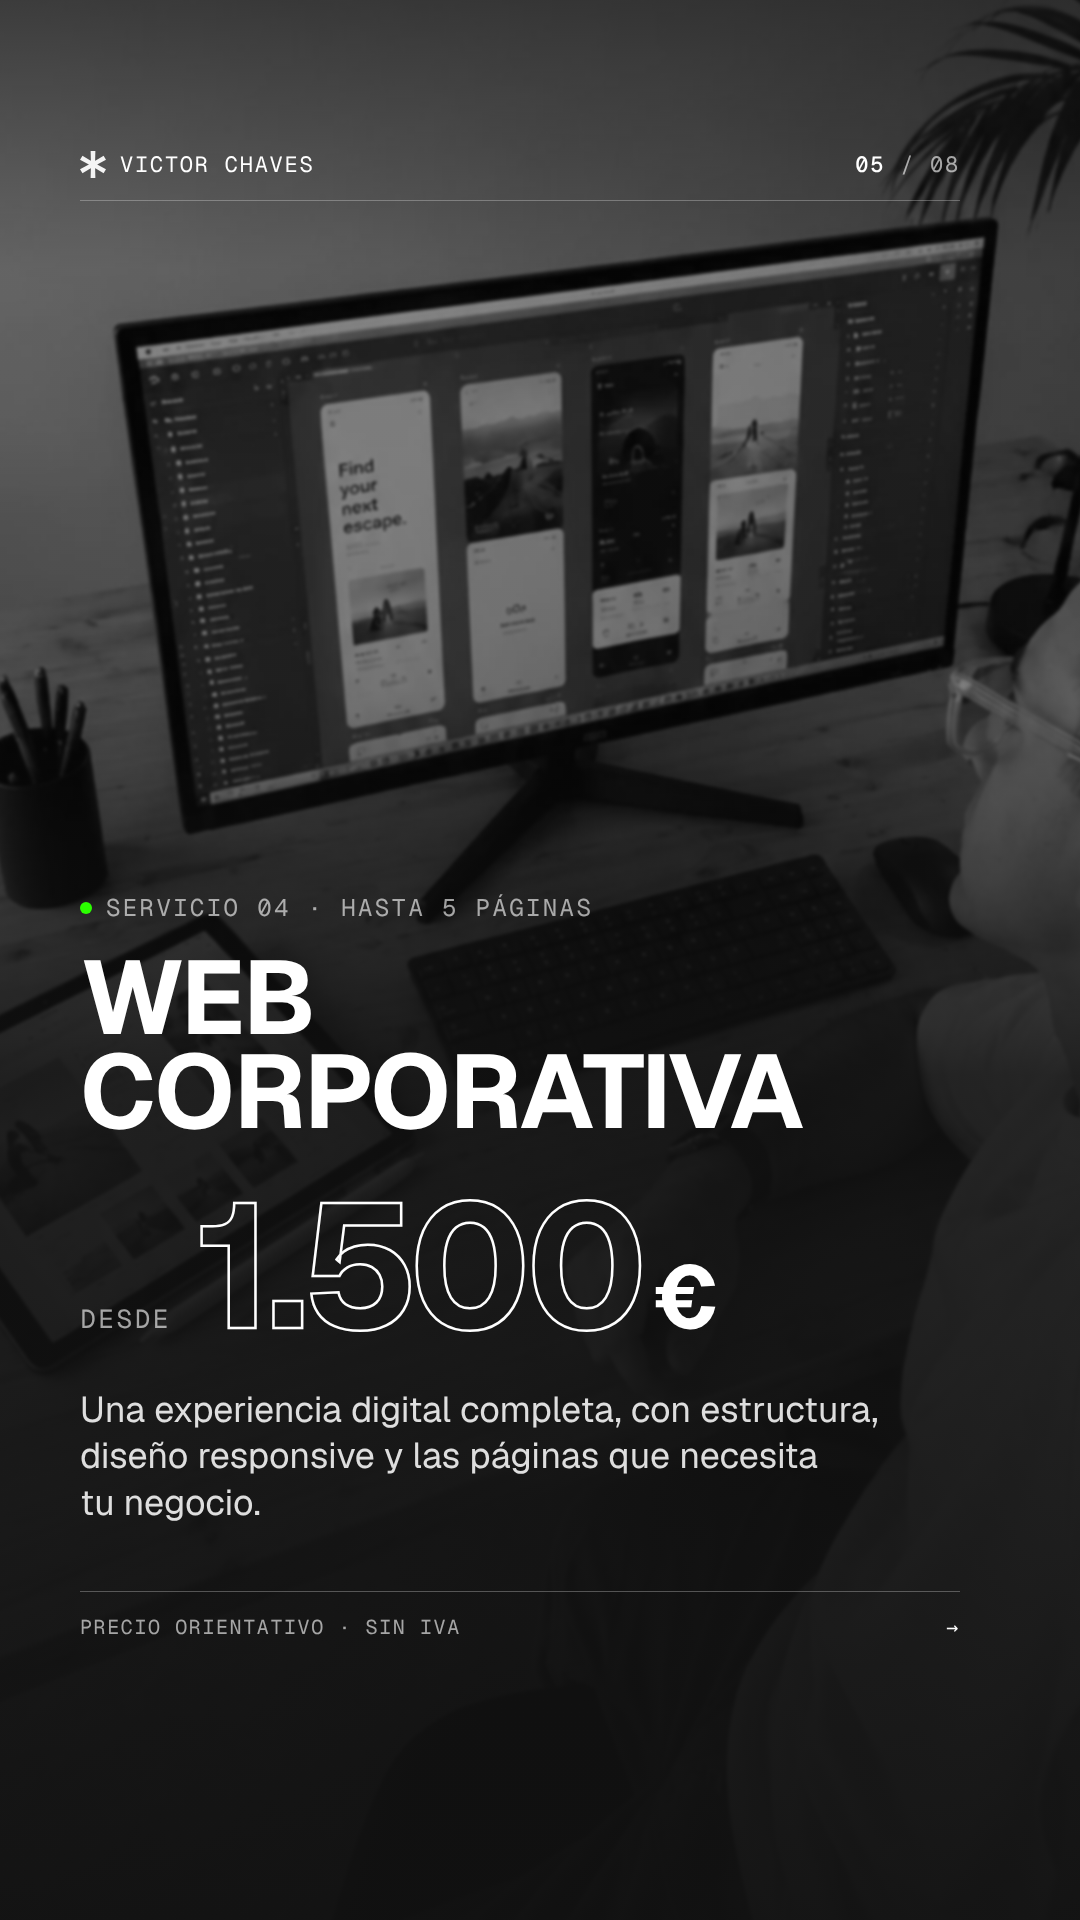
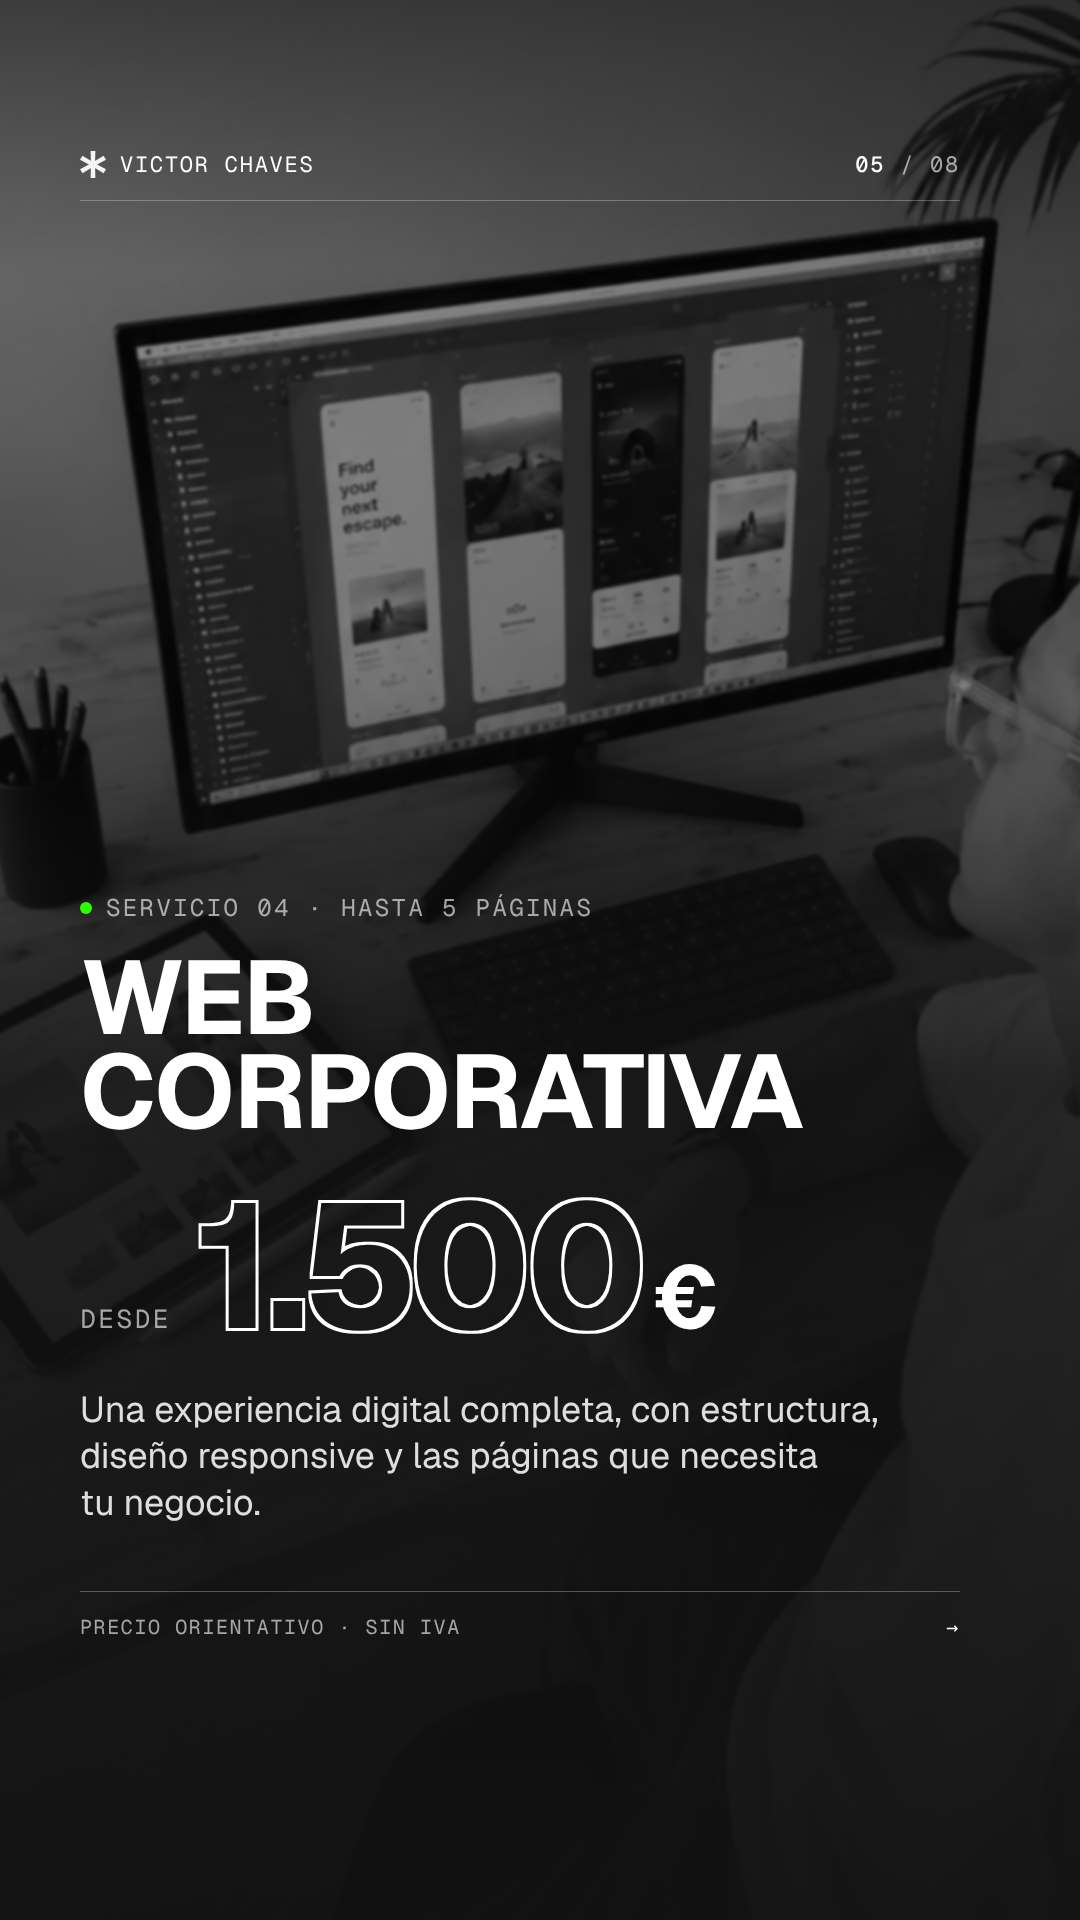
Lead the pricing carousel with what I charge as a freelancer
New cover hook. The outlined type is now drawn with a filter instead of
text-stroke, which showed the overlapping strokes inside Geist's
letters (the stray lines in the F, L and G).

Claude-Session: https://claude.ai/code/session_01CMTTdA2FPy75HwB5GT71P6

Changed region(s): [[0.275, 0.625, 0.6111, 0.6875], [0.1833, 0.625, 0.2444, 0.6875]]

diff --git a/redes/carrusel-precios/index.html b/redes/carrusel-precios/index.html
@@ -68,7 +68,7 @@ body.export { padding: 0; gap: 0; background: var(--bg); }
 /* La portada lleva la foto en color y más limpia */
 .slide--cover::before { filter: brightness(0.9) saturate(0.9); }
 .slide--cover::after {
-  background: linear-gradient(180deg, rgba(17,17,17,0.55) 0%, rgba(17,17,17,0) 14%, rgba(17,17,17,0) 40%, rgba(17,17,17,0.8) 60%, rgba(17,17,17,0.97) 82%);
+  background: linear-gradient(180deg, rgba(17,17,17,0.75) 0%, rgba(17,17,17,0.45) 9%, rgba(17,17,17,0) 16%, rgba(17,17,17,0) 30%, rgba(17,17,17,0.82) 44%, rgba(17,17,17,0.97) 70%);
 }
 
 /* El cierre lleva más texto y sube más: el velo empieza antes */
@@ -100,16 +100,19 @@ body.export { padding: 0; gap: 0; background: var(--bg); }
   font-size: 104px; line-height: 0.9; letter-spacing: -0.02em;
 }
 .title--m { font-size: 82px; line-height: 0.94; }
-.outline { color: transparent; -webkit-text-stroke: 2px var(--fg); }
+/* El contorno se dibuja con un filtro y no con text-stroke: Geist es variable
+   y sus letras tienen trazos que se solapan, y text-stroke los enseña todos. */
+.outline { color: var(--fg); filter: url(#outline); }
+.outline--thick { filter: url(#outline-thick); }
 
 .price { margin-top: 56px; display: flex; align-items: baseline; gap: 24px; }
 .price small {
   font-family: 'Geist Mono', monospace; font-size: 26px; letter-spacing: 0.1em; text-transform: uppercase; color: var(--dim);
 }
-.price strong em { font-style: normal; color: var(--fg); -webkit-text-stroke: 0; font-size: 0.5em; margin-left: 0.12em; letter-spacing: 0; }
+.price strong em { font-style: normal; font-size: 0.5em; margin-left: 0.12em; letter-spacing: 0; }
 .price strong {
   font-weight: 700; font-size: 176px; line-height: 0.82; letter-spacing: -0.04em;
-  color: transparent; -webkit-text-stroke: 2.5px var(--fg);
+  color: var(--fg);
 }
 
 .text, .sub, .quote { text-wrap: pretty; }
@@ -150,7 +153,7 @@ body.export { padding: 0; gap: 0; background: var(--bg); }
 .foot .next { color: var(--fg); }
 
 /* Portada */
-.slide--cover .title { font-size: 128px; line-height: 0.88; }
+.slide--cover .title { font-size: 116px; line-height: 0.98; }
 .slide--cover .sub { margin-top: 36px; font-size: 38px; line-height: 1.25; color: rgba(255,255,255,0.86); max-width: 760px; }
 .services {
   margin-top: 44px; display: flex; flex-wrap: wrap; gap: 12px;
@@ -161,15 +164,20 @@ body.export { padding: 0; gap: 0; background: var(--bg); }
 </head>
 <body>
 
+<svg width="0" height="0" style="position:absolute" aria-hidden="true">
+  <filter id="outline"><feMorphology in="SourceAlpha" operator="dilate" radius="2" result="d"/><feComposite in="d" in2="SourceAlpha" operator="out" result="o"/><feFlood flood-color="#fff"/><feComposite in2="o" operator="in"/></filter>
+  <filter id="outline-thick"><feMorphology in="SourceAlpha" operator="dilate" radius="2.5" result="d"/><feComposite in="d" in2="SourceAlpha" operator="out" result="o"/><feFlood flood-color="#fff"/><feComposite in2="o" operator="in"/></filter>
+</svg>
+
 <template id="mark">
   <svg viewBox="0 0 21 21.84" aria-hidden="true"><path d="M8.83375 11.7429L10.6918 12.7591L1.98363 18.0962L0 14.7327L9.0255 9.90701V11.9395L0 7.10734L1.98363 3.80282L10.6918 9.07432L8.83375 10.1562L8.57588 0H12.4175L12.1596 10.1562L10.3678 9.07432L19.0759 3.80282L21 7.10734L12.034 11.933V9.90045L21 14.7261L19.0759 18.0896L10.3678 12.7591L12.1596 11.7429L12.4175 21.84H8.57588L8.83375 11.7429Z" fill="#F4F4F4"/></svg>
 </template>
 
 <!-- 01 · Portada: la foto entera -->
-<section class="slide slide--cover" data-zoom="1.25" data-fx="0.6" data-fy="0.42">
+<section class="slide slide--cover" data-zoom="1.4" data-fx="0.62" data-fy="0.46">
   <header class="top"><span class="brand" data-mark>Victor Chaves</span><span class="count"><b>01</b> / 08</span></header>
   <div class="body">
-    <h1 class="title">¿Cuánto cuesta<br>trabajar<br><span class="outline">conmigo?</span></h1>
+    <h1 class="title">Esto es lo<br>que cobro<br>como diseñador <span class="outline">freelance</span></h1>
     <p class="sub">Mis precios de branding y diseño web, sin rodeos.</p>
     <ul class="services">
       <li>Logotipo</li><li>Identidad</li><li>Landing</li><li>Web</li><li>Branding + web</li>
@@ -184,7 +192,7 @@ body.export { padding: 0; gap: 0; background: var(--bg); }
   <div class="body">
     <p class="label">Servicio 01</p>
     <h2 class="title">Diseño de<br>logotipo</h2>
-    <div class="price"><small>Desde</small><strong>350<em>€</em></strong></div>
+    <div class="price"><small>Desde</small><strong><span class="outline outline--thick">350</span><em>€</em></strong></div>
     <p class="text">Para marcas que necesitan una identidad gráfica inicial, con un logotipo bien construido y sus aplicaciones esenciales.</p>
   </div>
   <footer class="foot"><span>Precio orientativo · sin IVA</span><span class="next">→</span></footer>
@@ -196,7 +204,7 @@ body.export { padding: 0; gap: 0; background: var(--bg); }
   <div class="body">
     <p class="label">Servicio 02</p>
     <h2 class="title">Identidad<br>visual completa</h2>
-    <div class="price"><small>Desde</small><strong>900<em>€</em></strong></div>
+    <div class="price"><small>Desde</small><strong><span class="outline outline--thick">900</span><em>€</em></strong></div>
     <p class="text">Un sistema visual coherente: logotipo, colores, tipografías, recursos gráficos y guía de uso.</p>
   </div>
   <footer class="foot"><span>Precio orientativo · sin IVA</span><span class="next">→</span></footer>
@@ -208,7 +216,7 @@ body.export { padding: 0; gap: 0; background: var(--bg); }
   <div class="body">
     <p class="label">Servicio 03 · diseño + desarrollo</p>
     <h2 class="title">Diseño web /<br>landing page</h2>
-    <div class="price"><small>Desde</small><strong>750<em>€</em></strong></div>
+    <div class="price"><small>Desde</small><strong><span class="outline outline--thick">750</span><em>€</em></strong></div>
     <p class="text">Una página diseñada para presentar tu negocio, comunicar tu propuesta y facilitar que tus visitantes contacten contigo.</p>
   </div>
   <footer class="foot"><span>Precio orientativo · sin IVA</span><span class="next">→</span></footer>
@@ -220,7 +228,7 @@ body.export { padding: 0; gap: 0; background: var(--bg); }
   <div class="body">
     <p class="label">Servicio 04 · hasta 5 páginas</p>
     <h2 class="title">Web<br>corporativa</h2>
-    <div class="price"><small>Desde</small><strong>1.500<em>€</em></strong></div>
+    <div class="price"><small>Desde</small><strong><span class="outline outline--thick">1.500</span><em>€</em></strong></div>
     <p class="text">Una experiencia digital completa, con estructura, diseño responsive y las páginas que necesita tu negocio.</p>
   </div>
   <footer class="foot"><span>Precio orientativo · sin IVA</span><span class="next">→</span></footer>
@@ -232,7 +240,7 @@ body.export { padding: 0; gap: 0; background: var(--bg); }
   <div class="body">
     <p class="label">Servicio 05 · el pack completo</p>
     <h2 class="title">Branding<br><span class="outline">+</span> web</h2>
-    <div class="price"><small>Desde</small><strong>2.200<em>€</em></strong></div>
+    <div class="price"><small>Desde</small><strong><span class="outline outline--thick">2.200</span><em>€</em></strong></div>
     <p class="text">Para proyectos que quieren construir su marca y su presencia digital bajo una misma dirección creativa.</p>
   </div>
   <footer class="foot"><span>Precio orientativo · sin IVA</span><span class="next">→</span></footer>

diff --git a/redes/carrusel-precios/README.md b/redes/carrusel-precios/README.md
@@ -6,7 +6,7 @@ titulares en contorno y el verde #2bff00 solo como acento.
 
 | | Diapositiva | Fondo (detalle de tu foto) |
 | --- | --- | --- |
-| 01 | Portada: «¿Cuánto cuesta trabajar conmigo?» | Tú y el monitor, en color |
+| 01 | Portada: «Esto es lo que cobro como diseñador freelance» | Tú y el monitor, en color |
 | 02 | Diseño de logotipo · desde 350 € | La tablet |
 | 03 | Identidad visual completa · desde 900 € | Tablet y lápiz |
 | 04 | Diseño web / landing page · desde 750 € | La pantalla, de cerca |
@@ -39,7 +39,7 @@ salen en `png/`.
 ## Texto para la publicación
 
 ```
-¿Cuánto cuesta trabajar conmigo? Aquí lo tienes, sin rodeos 👇
+Esto es lo que cobro como diseñador freelance, sin rodeos 👇
 
 Logotipo, identidad visual, landing page, web corporativa o todo junto.
 Son precios de partida: cada proyecto se presupuesta según lo que necesita.
